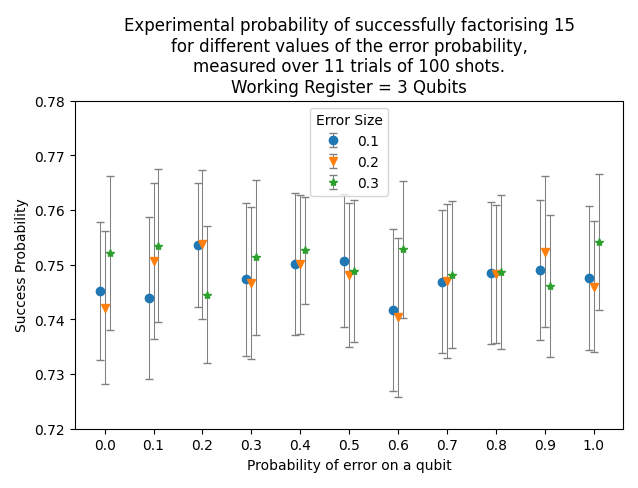
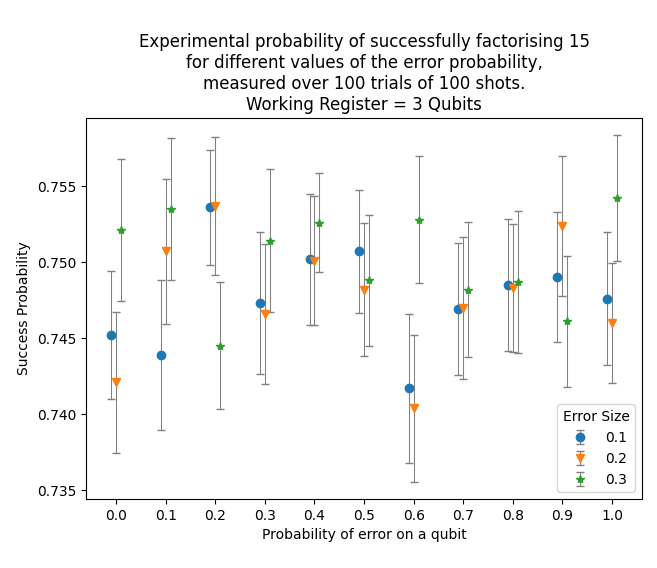
snorted 5 puddles of cum

diff --git a/Code/cum.py b/Code/cum.py
@@ -5,7 +5,7 @@ results_10 = [[0.75, 0.76, 0.71, 0.79, 0.75, 0.7, 0.75, 0.76, 0.81, 0.79, 0.73, 
 results_20 = [[0.77, 0.74, 0.84, 0.73, 0.71, 0.72, 0.74, 0.76, 0.72, 0.76, 0.81, 0.76, 0.7, 0.72, 0.76, 0.82, 0.78, 0.75, 0.75, 0.81, 0.75, 0.69, 0.64, 0.69, 0.76, 0.78, 0.73, 0.73, 0.67, 0.79, 0.74, 0.82, 0.76, 0.83, 0.69, 0.68, 0.74, 0.69, 0.8, 0.67, 0.75, 0.71, 0.69, 0.81, 0.7, 0.76, 0.77, 0.69, 0.77, 0.78, 0.72, 0.68, 0.7, 0.65, 0.73, 0.78, 0.77, 0.79, 0.71, 0.84, 0.73, 0.76, 0.73, 0.74, 0.76, 0.76, 0.78, 0.68, 0.81, 0.74, 0.75, 0.67, 0.7, 0.72, 0.7, 0.64, 0.8, 0.78, 0.86, 0.73, 0.73, 0.77, 0.72, 0.78, 0.7, 0.76, 0.76, 0.69, 0.78, 0.68, 0.75, 0.69, 0.79, 0.73, 0.76, 0.76, 0.75, 0.68, 0.8, 0.69], [0.74, 0.7, 0.79, 0.75, 0.68, 0.74, 0.8, 0.83, 0.7, 0.77, 0.71, 0.76, 0.75, 0.74, 0.83, 0.76, 0.74, 0.73, 0.72, 0.69, 0.79, 0.74, 0.84, 0.74, 0.82, 0.72, 0.75, 0.76, 0.8, 0.87, 0.71, 0.74, 0.76, 0.79, 0.74, 0.7, 0.73, 0.73, 0.75, 0.71, 0.8, 0.73, 0.79, 0.7, 0.69, 0.79, 0.75, 0.71, 0.83, 0.88, 0.8, 0.63, 0.7, 0.79, 0.76, 0.75, 0.7, 0.77, 0.61, 0.76, 0.69, 0.8, 0.8, 0.7, 0.81, 0.77, 0.73, 0.81, 0.83, 0.75, 0.78, 0.71, 0.66, 0.73, 0.77, 0.74, 0.78, 0.8, 0.69, 0.73, 0.72, 0.76, 0.78, 0.82, 0.71, 0.79, 0.8, 0.78, 0.72, 0.75, 0.74, 0.67, 0.76, 0.74, 0.7, 0.73, 0.74, 0.76, 0.75, 0.71], [0.64, 0.67, 0.8, 0.75, 0.77, 0.72, 0.8, 0.83, 0.78, 0.71, 0.86, 0.79, 0.73, 0.72, 0.74, 0.8, 0.8, 0.73, 0.7, 0.69, 0.73, 0.74, 0.76, 0.73, 0.72, 0.74, 0.68, 0.75, 0.8, 0.8, 0.77, 0.75, 0.79, 0.77, 0.72, 0.78, 0.78, 0.73, 0.78, 0.66, 0.78, 0.79, 0.74, 0.75, 0.69, 0.61, 0.77, 0.75, 0.76, 0.78, 0.77, 0.76, 0.78, 0.75, 0.74, 0.69, 0.84, 0.78, 0.71, 0.76, 0.7, 0.79, 0.72, 0.75, 0.83, 0.76, 0.78, 0.72, 0.79, 0.68, 0.77, 0.79, 0.76, 0.75, 0.75, 0.79, 0.7, 0.72, 0.75, 0.71, 0.81, 0.7, 0.76, 0.76, 0.77, 0.82, 0.8, 0.8, 0.72, 0.74, 0.84, 0.68, 0.71, 0.86, 0.75, 0.8, 0.75, 0.75, 0.76, 0.77], [0.73, 0.79, 0.75, 0.8, 0.74, 0.78, 0.77, 0.78, 0.81, 0.81, 0.79, 0.78, 0.84, 0.71, 0.8, 0.71, 0.78, 0.76, 0.79, 0.78, 0.7, 0.75, 0.76, 0.69, 0.69, 0.71, 0.74, 0.79, 0.76, 0.78, 0.78, 0.79, 0.7, 0.64, 0.71, 0.73, 0.77, 0.69, 0.68, 0.79, 0.73, 0.73, 0.74, 0.81, 0.7, 0.66, 0.76, 0.76, 0.72, 0.74, 0.76, 0.77, 0.73, 0.68, 0.72, 0.74, 0.77, 0.78, 0.79, 0.73, 0.81, 0.6, 0.66, 0.69, 0.76, 0.68, 0.83, 0.76, 0.82, 0.75, 0.73, 0.74, 0.72, 0.75, 0.74, 0.73, 0.79, 0.84, 0.77, 0.77, 0.72, 0.69, 0.78, 0.78, 0.81, 0.72, 0.72, 0.69, 0.76, 0.73, 0.69, 0.72, 0.64, 0.71, 0.78, 0.8, 0.71, 0.72, 0.78, 0.8], [0.78, 0.77, 0.72, 0.75, 0.73, 0.81, 0.77, 0.75, 0.75, 0.67, 0.76, 0.78, 0.78, 0.72, 0.71, 0.73, 0.67, 0.8, 0.81, 0.74, 0.77, 0.72, 0.77, 0.78, 0.77, 0.81, 0.79, 0.77, 0.73, 0.7, 0.72, 0.75, 0.72, 0.74, 0.81, 0.72, 0.75, 0.71, 0.71, 0.83, 0.75, 0.79, 0.64, 0.81, 0.71, 0.72, 0.71, 0.7, 0.77, 0.73, 0.78, 0.78, 0.68, 0.72, 0.73, 0.79, 0.78, 0.82, 0.8, 0.8, 0.75, 0.73, 0.81, 0.7, 0.74, 0.75, 0.75, 0.77, 0.68, 0.75, 0.81, 0.77, 0.78, 0.73, 0.78, 0.74, 0.78, 0.74, 0.74, 0.78, 0.7, 0.76, 0.7, 0.64, 0.67, 0.77, 0.74, 0.71, 0.75, 0.71, 0.73, 0.75, 0.8, 0.82, 0.73, 0.79, 0.75, 0.88, 0.72, 0.73], [0.71, 0.74, 0.77, 0.73, 0.77, 0.73, 0.76, 0.71, 0.79, 0.71, 0.77, 0.78, 0.71, 0.79, 0.83, 0.77, 0.71, 0.79, 0.81, 0.66, 0.68, 0.73, 0.72, 0.75, 0.72, 0.75, 0.77, 0.69, 0.78, 0.68, 0.8, 0.75, 0.78, 0.7, 0.72, 0.67, 0.74, 0.73, 0.83, 0.86, 0.73, 0.71, 0.78, 0.7, 0.82, 0.73, 0.75, 0.67, 0.76, 0.81, 0.8, 0.76, 0.68, 0.72, 0.66, 0.8, 0.74, 0.71, 0.71, 0.73, 0.74, 0.82, 0.73, 0.8, 0.76, 0.75, 0.74, 0.69, 0.69, 0.73, 0.78, 0.73, 0.71, 0.74, 0.74, 0.8, 0.81, 0.77, 0.77, 0.81, 0.69, 0.8, 0.69, 0.82, 0.73, 0.79, 0.72, 0.72, 0.71, 0.72, 0.78, 0.75, 0.8, 0.8, 0.72, 0.71, 0.75, 0.75, 0.78, 0.82], [0.61, 0.67, 0.62, 0.69, 0.77, 0.77, 0.71, 0.63, 0.73, 0.76, 0.64, 0.76, 0.67, 0.73, 0.74, 0.76, 0.77, 0.73, 0.69, 0.76, 0.76, 0.73, 0.83, 0.8, 0.81, 0.74, 0.76, 0.77, 0.81, 0.73, 0.67, 0.68, 0.79, 0.74, 0.74, 0.76, 0.73, 0.73, 0.77, 0.75, 0.67, 0.77, 0.74, 0.75, 0.68, 0.75, 0.71, 0.71, 0.68, 0.77, 0.74, 0.73, 0.74, 0.74, 0.71, 0.76, 0.75, 0.76, 0.75, 0.68, 0.87, 0.73, 0.72, 0.74, 0.72, 0.82, 0.77, 0.69, 0.63, 0.7, 0.81, 0.67, 0.75, 0.77, 0.67, 0.77, 0.76, 0.77, 0.82, 0.74, 0.72, 0.74, 0.78, 0.79, 0.79, 0.85, 0.79, 0.78, 0.73, 0.69, 0.71, 0.77, 0.74, 0.77, 0.77, 0.76, 0.79, 0.77, 0.7, 0.78], [0.8, 0.75, 0.68, 0.81, 0.78, 0.78, 0.76, 0.73, 0.77, 0.81, 0.79, 0.83, 0.67, 0.77, 0.67, 0.7, 0.76, 0.77, 0.74, 0.69, 0.79, 0.74, 0.73, 0.82, 0.74, 0.64, 0.74, 0.81, 0.77, 0.75, 0.8, 0.64, 0.78, 0.68, 0.78, 0.74, 0.73, 0.79, 0.81, 0.77, 0.74, 0.69, 0.7, 0.8, 0.76, 0.76, 0.72, 0.74, 0.73, 0.8, 0.83, 0.69, 0.79, 0.71, 0.71, 0.72, 0.77, 0.75, 0.75, 0.73, 0.84, 0.85, 0.76, 0.76, 0.74, 0.74, 0.67, 0.7, 0.71, 0.82, 0.74, 0.72, 0.7, 0.7, 0.72, 0.72, 0.75, 0.71, 0.72, 0.79, 0.83, 0.74, 0.69, 0.74, 0.74, 0.71, 0.78, 0.73, 0.65, 0.7, 0.73, 0.83, 0.74, 0.7, 0.7, 0.81, 0.7, 0.81, 0.76, 0.75], [0.76, 0.82, 0.78, 0.71, 0.65, 0.79, 0.76, 0.8, 0.73, 0.75, 0.67, 0.83, 0.72, 0.7, 0.79, 0.8, 0.72, 0.75, 0.79, 0.64, 0.8, 0.73, 0.72, 0.77, 0.75, 0.83, 0.68, 0.74, 0.74, 0.71, 0.79, 0.72, 0.69, 0.75, 0.76, 0.75, 0.75, 0.7, 0.74, 0.81, 0.76, 0.71, 0.79, 0.8, 0.77, 0.69, 0.72, 0.71, 0.71, 0.76, 0.75, 0.76, 0.69, 0.77, 0.73, 0.76, 0.74, 0.73, 0.79, 0.81, 0.78, 0.73, 0.73, 0.69, 0.7, 0.86, 0.76, 0.76, 0.73, 0.76, 0.74, 0.78, 0.71, 0.73, 0.67, 0.79, 0.75, 0.81, 0.67, 0.76, 0.78, 0.76, 0.71, 0.75, 0.83, 0.74, 0.71, 0.76, 0.77, 0.8, 0.78, 0.81, 0.73, 0.74, 0.73, 0.71, 0.77, 0.78, 0.7, 0.72], [0.73, 0.8, 0.75, 0.81, 0.65, 0.81, 0.76, 0.76, 0.74, 0.74, 0.74, 0.68, 0.69, 0.74, 0.76, 0.77, 0.72, 0.78, 0.7, 0.71, 0.76, 0.77, 0.7, 0.72, 0.81, 0.79, 0.72, 0.69, 0.78, 0.68, 0.78, 0.72, 0.71, 0.82, 0.71, 0.75, 0.68, 0.67, 0.73, 0.77, 0.71, 0.85, 0.8, 0.81, 0.76, 0.73, 0.75, 0.79, 0.72, 0.77, 0.82, 0.69, 0.82, 0.73, 0.85, 0.83, 0.71, 0.84, 0.83, 0.76, 0.76, 0.72, 0.77, 0.75, 0.69, 0.73, 0.77, 0.78, 0.81, 0.67, 0.73, 0.73, 0.79, 0.69, 0.76, 0.82, 0.69, 0.72, 0.76, 0.81, 0.7, 0.74, 0.74, 0.75, 0.78, 0.67, 0.75, 0.8, 0.8, 0.77, 0.75, 0.75, 0.72, 0.73, 0.79, 0.72, 0.75, 0.76, 0.8, 0.85], [0.78, 0.78, 0.73, 0.78, 0.77, 0.72, 0.71, 0.75, 0.76, 0.73, 0.77, 0.78, 0.76, 0.71, 0.77, 0.78, 0.71, 0.66, 0.72, 0.78, 0.68, 0.77, 0.76, 0.7, 0.81, 0.82, 0.73, 0.84, 0.76, 0.69, 0.77, 0.7, 0.73, 0.8, 0.74, 0.73, 0.79, 0.7, 0.72, 0.75, 0.7, 0.79, 0.82, 0.76, 0.78, 0.73, 0.77, 0.72, 0.78, 0.73, 0.74, 0.76, 0.77, 0.69, 0.77, 0.76, 0.78, 0.75, 0.71, 0.66, 0.72, 0.8, 0.71, 0.75, 0.82, 0.74, 0.73, 0.76, 0.72, 0.81, 0.72, 0.74, 0.74, 0.74, 0.76, 0.75, 0.66, 0.76, 0.7, 0.67, 0.75, 0.73, 0.68, 0.73, 0.81, 0.79, 0.74, 0.77, 0.74, 0.79, 0.76, 0.76, 0.68, 0.77, 0.7, 0.78, 0.7, 0.69, 0.7, 0.82]]
 results_30 = [[0.78, 0.73, 0.78, 0.74, 0.79, 0.77, 0.8, 0.73, 0.8, 0.73, 0.62, 0.82, 0.73, 0.73, 0.82, 0.76, 0.78, 0.8, 0.7, 0.77, 0.79, 0.7, 0.7, 0.7, 0.73, 0.71, 0.78, 0.68, 0.77, 0.74, 0.76, 0.84, 0.77, 0.67, 0.75, 0.7, 0.79, 0.73, 0.8, 0.65, 0.76, 0.67, 0.7, 0.78, 0.74, 0.78, 0.77, 0.75, 0.73, 0.75, 0.71, 0.79, 0.74, 0.66, 0.83, 0.74, 0.74, 0.83, 0.8, 0.75, 0.72, 0.74, 0.8, 0.74, 0.79, 0.72, 0.74, 0.71, 0.84, 0.76, 0.73, 0.79, 0.7, 0.77, 0.76, 0.76, 0.82, 0.79, 0.81, 0.65, 0.72, 0.73, 0.8, 0.77, 0.76, 0.72, 0.8, 0.69, 0.71, 0.69, 0.74, 0.84, 0.83, 0.75, 0.74, 0.86, 0.75, 0.74, 0.75, 0.72], [0.71, 0.79, 0.7, 0.76, 0.75, 0.82, 0.77, 0.74, 0.74, 0.84, 0.75, 0.71, 0.82, 0.76, 0.78, 0.77, 0.79, 0.77, 0.79, 0.76, 0.77, 0.74, 0.72, 0.73, 0.75, 0.8, 0.75, 0.76, 0.67, 0.78, 0.72, 0.76, 0.67, 0.73, 0.79, 0.79, 0.68, 0.72, 0.74, 0.82, 0.7, 0.67, 0.77, 0.73, 0.74, 0.69, 0.72, 0.79, 0.67, 0.7, 0.81, 0.8, 0.75, 0.82, 0.72, 0.76, 0.79, 0.74, 0.8, 0.85, 0.77, 0.83, 0.75, 0.68, 0.81, 0.81, 0.74, 0.77, 0.67, 0.68, 0.66, 0.74, 0.65, 0.73, 0.83, 0.7, 0.78, 0.74, 0.79, 0.68, 0.77, 0.74, 0.83, 0.72, 0.79, 0.75, 0.77, 0.8, 0.71, 0.69, 0.71, 0.75, 0.84, 0.79, 0.77, 0.74, 0.83, 0.77, 0.75, 0.79], [0.74, 0.72, 0.77, 0.76, 0.7, 0.78, 0.73, 0.77, 0.76, 0.7, 0.66, 0.69, 0.76, 0.71, 0.8, 0.74, 0.74, 0.7, 0.75, 0.79, 0.69, 0.7, 0.69, 0.7, 0.78, 0.73, 0.82, 0.72, 0.73, 0.77, 0.62, 0.76, 0.77, 0.79, 0.66, 0.74, 0.78, 0.63, 0.77, 0.78, 0.71, 0.8, 0.7, 0.78, 0.78, 0.77, 0.77, 0.71, 0.71, 0.78, 0.79, 0.82, 0.79, 0.72, 0.76, 0.76, 0.75, 0.74, 0.74, 0.66, 0.77, 0.75, 0.83, 0.79, 0.79, 0.83, 0.77, 0.72, 0.72, 0.74, 0.76, 0.73, 0.72, 0.74, 0.72, 0.79, 0.79, 0.76, 0.71, 0.83, 0.68, 0.77, 0.69, 0.72, 0.79, 0.69, 0.74, 0.76, 0.75, 0.72, 0.75, 0.74, 0.76, 0.7, 0.77, 0.73, 0.75, 0.77, 0.72, 0.75], [0.72, 0.83, 0.71, 0.74, 0.72, 0.71, 0.79, 0.76, 0.74, 0.76, 0.77, 0.8, 0.75, 0.8, 0.78, 0.8, 0.76, 0.72, 0.88, 0.77, 0.76, 0.72, 0.77, 0.82, 0.69, 0.74, 0.72, 0.67, 0.66, 0.82, 0.72, 0.79, 0.76, 0.75, 0.7, 0.74, 0.77, 0.81, 0.81, 0.7, 0.74, 0.77, 0.76, 0.79, 0.75, 0.8, 0.74, 0.73, 0.79, 0.72, 0.72, 0.61, 0.75, 0.73, 0.73, 0.7, 0.73, 0.75, 0.7, 0.75, 0.8, 0.83, 0.78, 0.75, 0.78, 0.72, 0.72, 0.64, 0.68, 0.73, 0.77, 0.8, 0.78, 0.7, 0.72, 0.72, 0.82, 0.76, 0.71, 0.84, 0.88, 0.67, 0.74, 0.72, 0.75, 0.73, 0.73, 0.74, 0.78, 0.79, 0.76, 0.74, 0.83, 0.67, 0.76, 0.77, 0.75, 0.81, 0.7, 0.78], [0.73, 0.82, 0.75, 0.76, 0.8, 0.73, 0.77, 0.75, 0.75, 0.76, 0.75, 0.77, 0.7, 0.77, 0.76, 0.76, 0.8, 0.83, 0.72, 0.75, 0.75, 0.75, 0.69, 0.71, 0.75, 0.73, 0.74, 0.75, 0.73, 0.75, 0.72, 0.8, 0.79, 0.75, 0.71, 0.7, 0.78, 0.76, 0.74, 0.71, 0.73, 0.78, 0.77, 0.78, 0.71, 0.78, 0.74, 0.75, 0.81, 0.79, 0.74, 0.76, 0.71, 0.75, 0.72, 0.72, 0.81, 0.76, 0.76, 0.72, 0.7, 0.73, 0.79, 0.75, 0.73, 0.82, 0.77, 0.76, 0.75, 0.72, 0.79, 0.76, 0.76, 0.74, 0.74, 0.79, 0.76, 0.74, 0.74, 0.8, 0.83, 0.79, 0.77, 0.71, 0.74, 0.76, 0.7, 0.72, 0.81, 0.73, 0.75, 0.73, 0.81, 0.75, 0.69, 0.76, 0.73, 0.75, 0.69, 0.77], [0.74, 0.72, 0.78, 0.78, 0.76, 0.75, 0.79, 0.79, 0.76, 0.77, 0.7, 0.7, 0.83, 0.72, 0.79, 0.79, 0.7, 0.78, 0.7, 0.73, 0.7, 0.72, 0.78, 0.77, 0.69, 0.72, 0.76, 0.68, 0.75, 0.72, 0.71, 0.76, 0.73, 0.61, 0.72, 0.73, 0.73, 0.8, 0.79, 0.73, 0.69, 0.7, 0.77, 0.83, 0.77, 0.7, 0.64, 0.82, 0.8, 0.75, 0.77, 0.75, 0.76, 0.77, 0.72, 0.83, 0.79, 0.74, 0.75, 0.8, 0.78, 0.75, 0.75, 0.68, 0.78, 0.71, 0.74, 0.78, 0.72, 0.8, 0.75, 0.7, 0.8, 0.74, 0.74, 0.67, 0.72, 0.77, 0.77, 0.79, 0.73, 0.71, 0.77, 0.74, 0.85, 0.73, 0.78, 0.75, 0.7, 0.75, 0.73, 0.76, 0.76, 0.86, 0.71, 0.78, 0.81, 0.75, 0.75, 0.69], [0.79, 0.8, 0.75, 0.66, 0.77, 0.79, 0.8, 0.73, 0.84, 0.69, 0.75, 0.85, 0.84, 0.78, 0.69, 0.73, 0.78, 0.74, 0.79, 0.79, 0.73, 0.81, 0.84, 0.79, 0.72, 0.71, 0.75, 0.74, 0.79, 0.79, 0.69, 0.69, 0.73, 0.74, 0.79, 0.72, 0.71, 0.71, 0.72, 0.71, 0.75, 0.75, 0.75, 0.72, 0.69, 0.78, 0.73, 0.74, 0.7, 0.76, 0.75, 0.7, 0.71, 0.74, 0.76, 0.76, 0.79, 0.75, 0.73, 0.79, 0.74, 0.79, 0.69, 0.83, 0.77, 0.76, 0.79, 0.71, 0.81, 0.74, 0.69, 0.76, 0.75, 0.69, 0.73, 0.73, 0.76, 0.79, 0.76, 0.73, 0.82, 0.74, 0.74, 0.82, 0.66, 0.76, 0.78, 0.71, 0.76, 0.73, 0.81, 0.8, 0.73, 0.75, 0.72, 0.76, 0.79, 0.82, 0.74, 0.73], [0.78, 0.73, 0.71, 0.76, 0.63, 0.8, 0.73, 0.75, 0.74, 0.72, 0.75, 0.83, 0.73, 0.77, 0.75, 0.73, 0.79, 0.84, 0.64, 0.79, 0.79, 0.72, 0.75, 0.76, 0.7, 0.79, 0.7, 0.69, 0.8, 0.7, 0.72, 0.77, 0.75, 0.67, 0.7, 0.8, 0.73, 0.73, 0.8, 0.76, 0.74, 0.75, 0.79, 0.71, 0.8, 0.74, 0.69, 0.77, 0.71, 0.71, 0.7, 0.82, 0.68, 0.8, 0.73, 0.79, 0.79, 0.83, 0.81, 0.76, 0.7, 0.72, 0.75, 0.83, 0.82, 0.8, 0.74, 0.74, 0.75, 0.68, 0.72, 0.79, 0.71, 0.78, 0.75, 0.75, 0.74, 0.78, 0.65, 0.75, 0.83, 0.75, 0.72, 0.77, 0.73, 0.73, 0.67, 0.77, 0.75, 0.77, 0.73, 0.71, 0.78, 0.74, 0.66, 0.79, 0.74, 0.72, 0.8, 0.79], [0.74, 0.71, 0.8, 0.75, 0.79, 0.71, 0.75, 0.78, 0.68, 0.74, 0.81, 0.78, 0.77, 0.73, 0.78, 0.76, 0.71, 0.8, 0.71, 0.72, 0.71, 0.73, 0.73, 0.67, 0.76, 0.73, 0.69, 0.73, 0.75, 0.74, 0.78, 0.83, 0.8, 0.78, 0.74, 0.68, 0.77, 0.63, 0.84, 0.7, 0.77, 0.67, 0.77, 0.68, 0.78, 0.74, 0.76, 0.75, 0.72, 0.73, 0.71, 0.79, 0.73, 0.7, 0.73, 0.69, 0.77, 0.71, 0.82, 0.71, 0.73, 0.72, 0.8, 0.73, 0.73, 0.73, 0.76, 0.71, 0.63, 0.73, 0.76, 0.86, 0.73, 0.78, 0.77, 0.74, 0.78, 0.77, 0.67, 0.79, 0.81, 0.83, 0.72, 0.81, 0.78, 0.75, 0.8, 0.83, 0.74, 0.73, 0.65, 0.81, 0.73, 0.83, 0.78, 0.85, 0.75, 0.76, 0.7, 0.75], [0.73, 0.72, 0.73, 0.67, 0.77, 0.75, 0.7, 0.73, 0.81, 0.76, 0.77, 0.68, 0.76, 0.78, 0.73, 0.76, 0.75, 0.69, 0.76, 0.67, 0.78, 0.71, 0.74, 0.83, 0.78, 0.75, 0.77, 0.74, 0.77, 0.74, 0.81, 0.77, 0.74, 0.71, 0.73, 0.71, 0.79, 0.68, 0.82, 0.75, 0.84, 0.77, 0.74, 0.76, 0.77, 0.76, 0.7, 0.8, 0.71, 0.74, 0.7, 0.73, 0.76, 0.75, 0.76, 0.75, 0.81, 0.71, 0.72, 0.72, 0.82, 0.65, 0.73, 0.63, 0.78, 0.79, 0.74, 0.73, 0.82, 0.74, 0.77, 0.77, 0.82, 0.75, 0.65, 0.73, 0.7, 0.83, 0.69, 0.76, 0.66, 0.75, 0.76, 0.72, 0.76, 0.71, 0.71, 0.73, 0.7, 0.71, 0.76, 0.75, 0.79, 0.82, 0.77, 0.82, 0.73, 0.7, 0.74, 0.78], [0.71, 0.75, 0.79, 0.79, 0.77, 0.68, 0.72, 0.82, 0.78, 0.71, 0.83, 0.7, 0.68, 0.8, 0.79, 0.73, 0.81, 0.72, 0.75, 0.8, 0.7, 0.72, 0.85, 0.77, 0.82, 0.78, 0.82, 0.74, 0.75, 0.71, 0.73, 0.71, 0.78, 0.73, 0.74, 0.79, 0.69, 0.72, 0.71, 0.83, 0.72, 0.78, 0.83, 0.79, 0.71, 0.74, 0.8, 0.8, 0.82, 0.67, 0.77, 0.77, 0.8, 0.71, 0.75, 0.78, 0.76, 0.7, 0.79, 0.76, 0.82, 0.69, 0.75, 0.73, 0.82, 0.73, 0.78, 0.77, 0.67, 0.77, 0.74, 0.71, 0.74, 0.72, 0.72, 0.75, 0.79, 0.77, 0.74, 0.8, 0.74, 0.71, 0.71, 0.75, 0.69, 0.73, 0.75, 0.75, 0.78, 0.7, 0.75, 0.77, 0.75, 0.8, 0.74, 0.74, 0.75, 0.8, 0.77, 0.76]]
 results = [results_10,results_20,results_30]
-trials = len(results_10)
+trials = len(results_10[0])
 shots = 100
 bitnumber = 3
 
@@ -27,7 +27,6 @@ for i in range(3):
 plt.xticks(errorp_list)
 plt.xlabel("Probability of error on a qubit")
 plt.ylabel("Success Probability")
-ax.set_ylim([0.72,0.78])
 plt.legend(title="Error Size")
 plt.title("""Experimental probability of successfully factorising {}
 for different values of the error probability,
